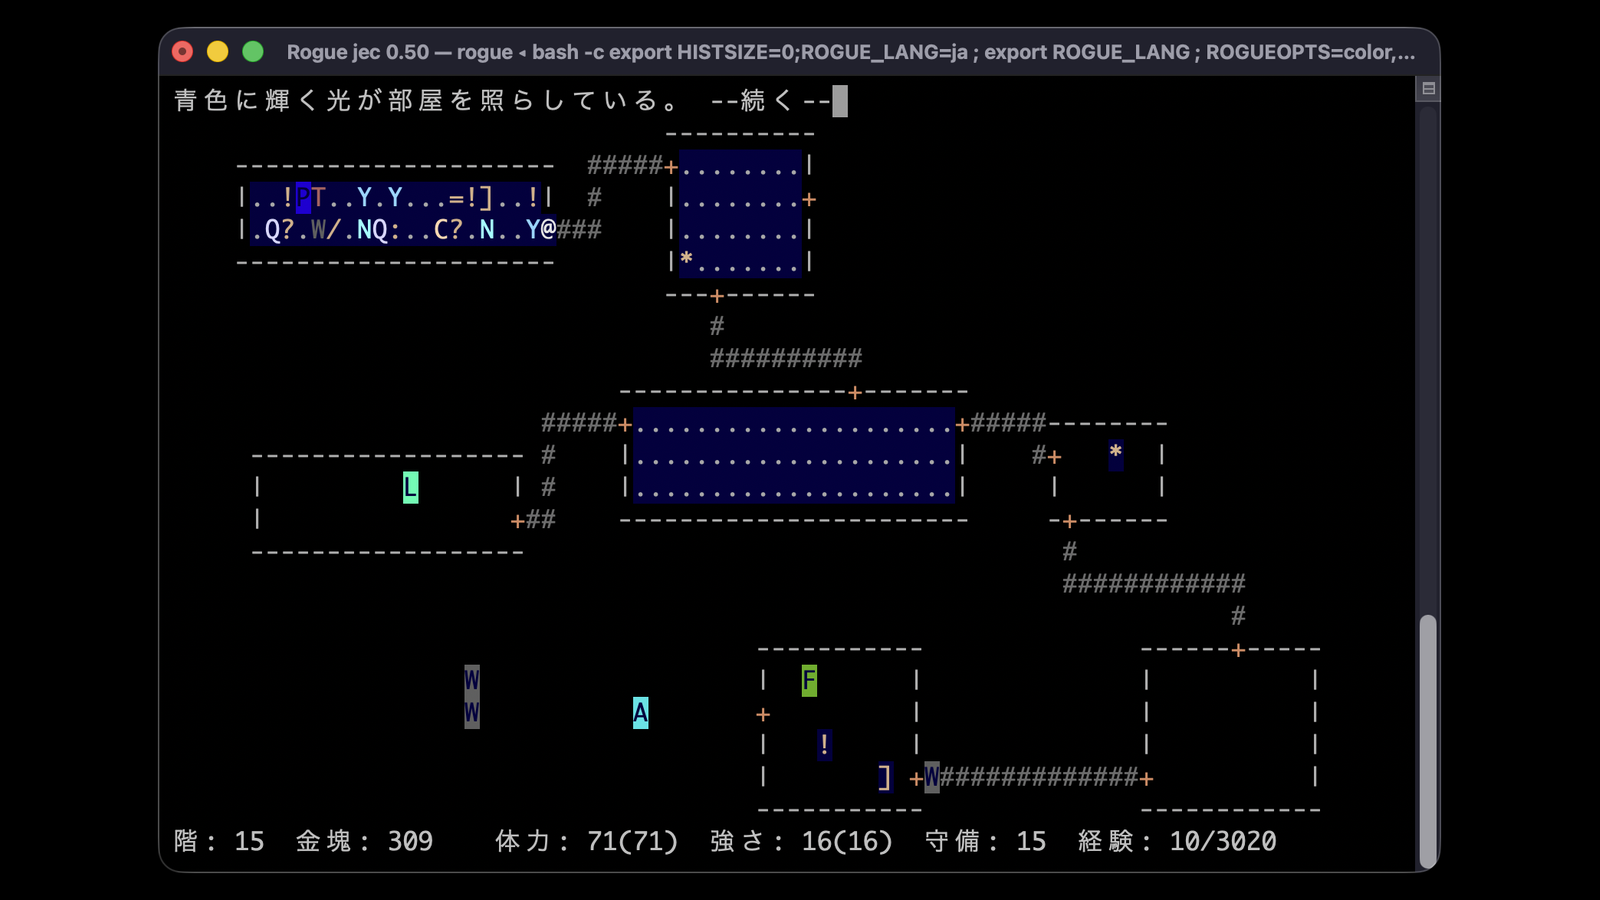
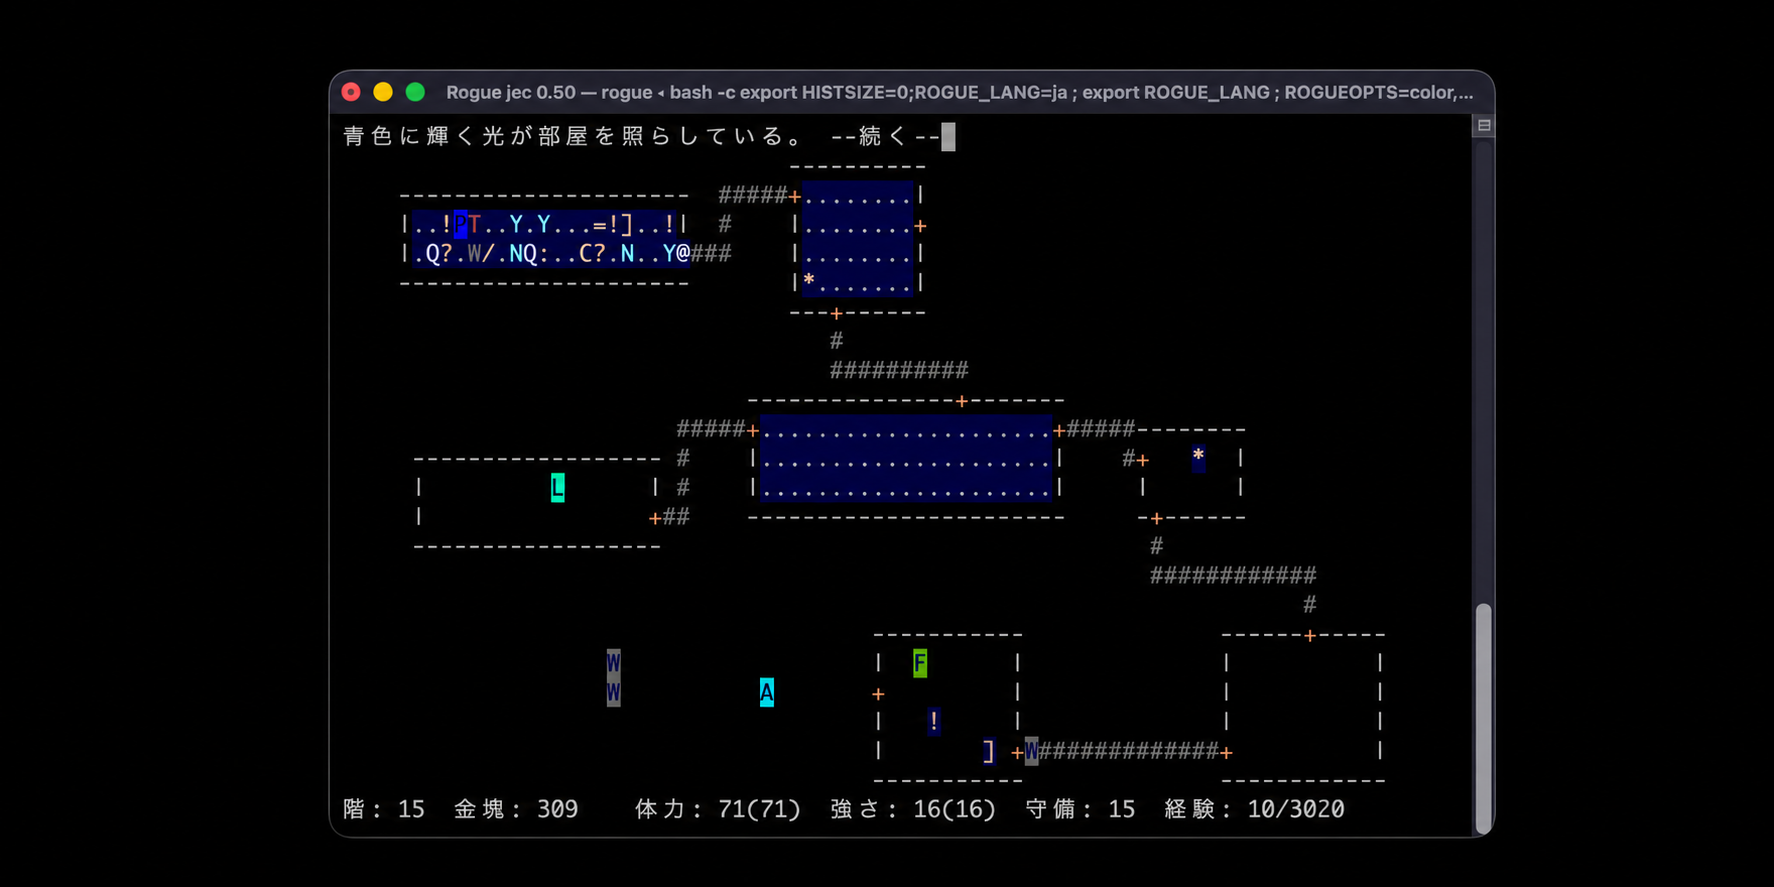
Xポスト用の画像変更

diff --git a/index.html b/index.html
@@ -29,10 +29,24 @@ if( localStorage['ga_exclude']!='1'){
 <link rel="alternate" type="application/atom+xml" title="Atom" href="atom.xml" />
 <link rel="alternate" type="application/rss+xml" title="RSS 2.0" href="index.xml" />
 <meta name="viewport" content="width=device-width, initial-scale=1">
-<meta name="twitter:card" content="summary_large_image" />
-<meta name="twitter:site" content="@leopard_gecko" />
-<meta name="twitter:title" content="Rogue for macOS" />
-<meta name="twitter:image" content="https://leopard-gecko.github.io/jrogue/for_twitter.png" />
+
+  <!-- X / Twitter Card -->
+  <meta name="twitter:card" content="summary_large_image">
+  <meta name="twitter:site" content="@leopard_gecko" />
+  <meta name="twitter:title" content="Rogue for macOS">
+  <meta name="twitter:description" content="Rogue for macOS">
+  <meta name="twitter:image" content="https://leopard-gecko.github.io/jrogue/for_twitter.png">
+
+  <!-- Open Graph / OGP -->
+  <meta property="og:title" content="Rogue for macOS">
+  <meta property="og:description" content="Rogue for macOS">
+  <meta property="og:type" content="website">
+  <meta property="og:url" content="https://leopard-gecko.github.io/jrogue">
+  <meta property="og:image" content="https://leopard-gecko.github.io/jrogue/for_twitter.png">
+  <meta property="og:image:width" content="1600">
+  <meta property="og:image:height" content="900">
+  <meta property="og:image:alt" content="Rogue for macOS">
+
 </head>
 
 <body>